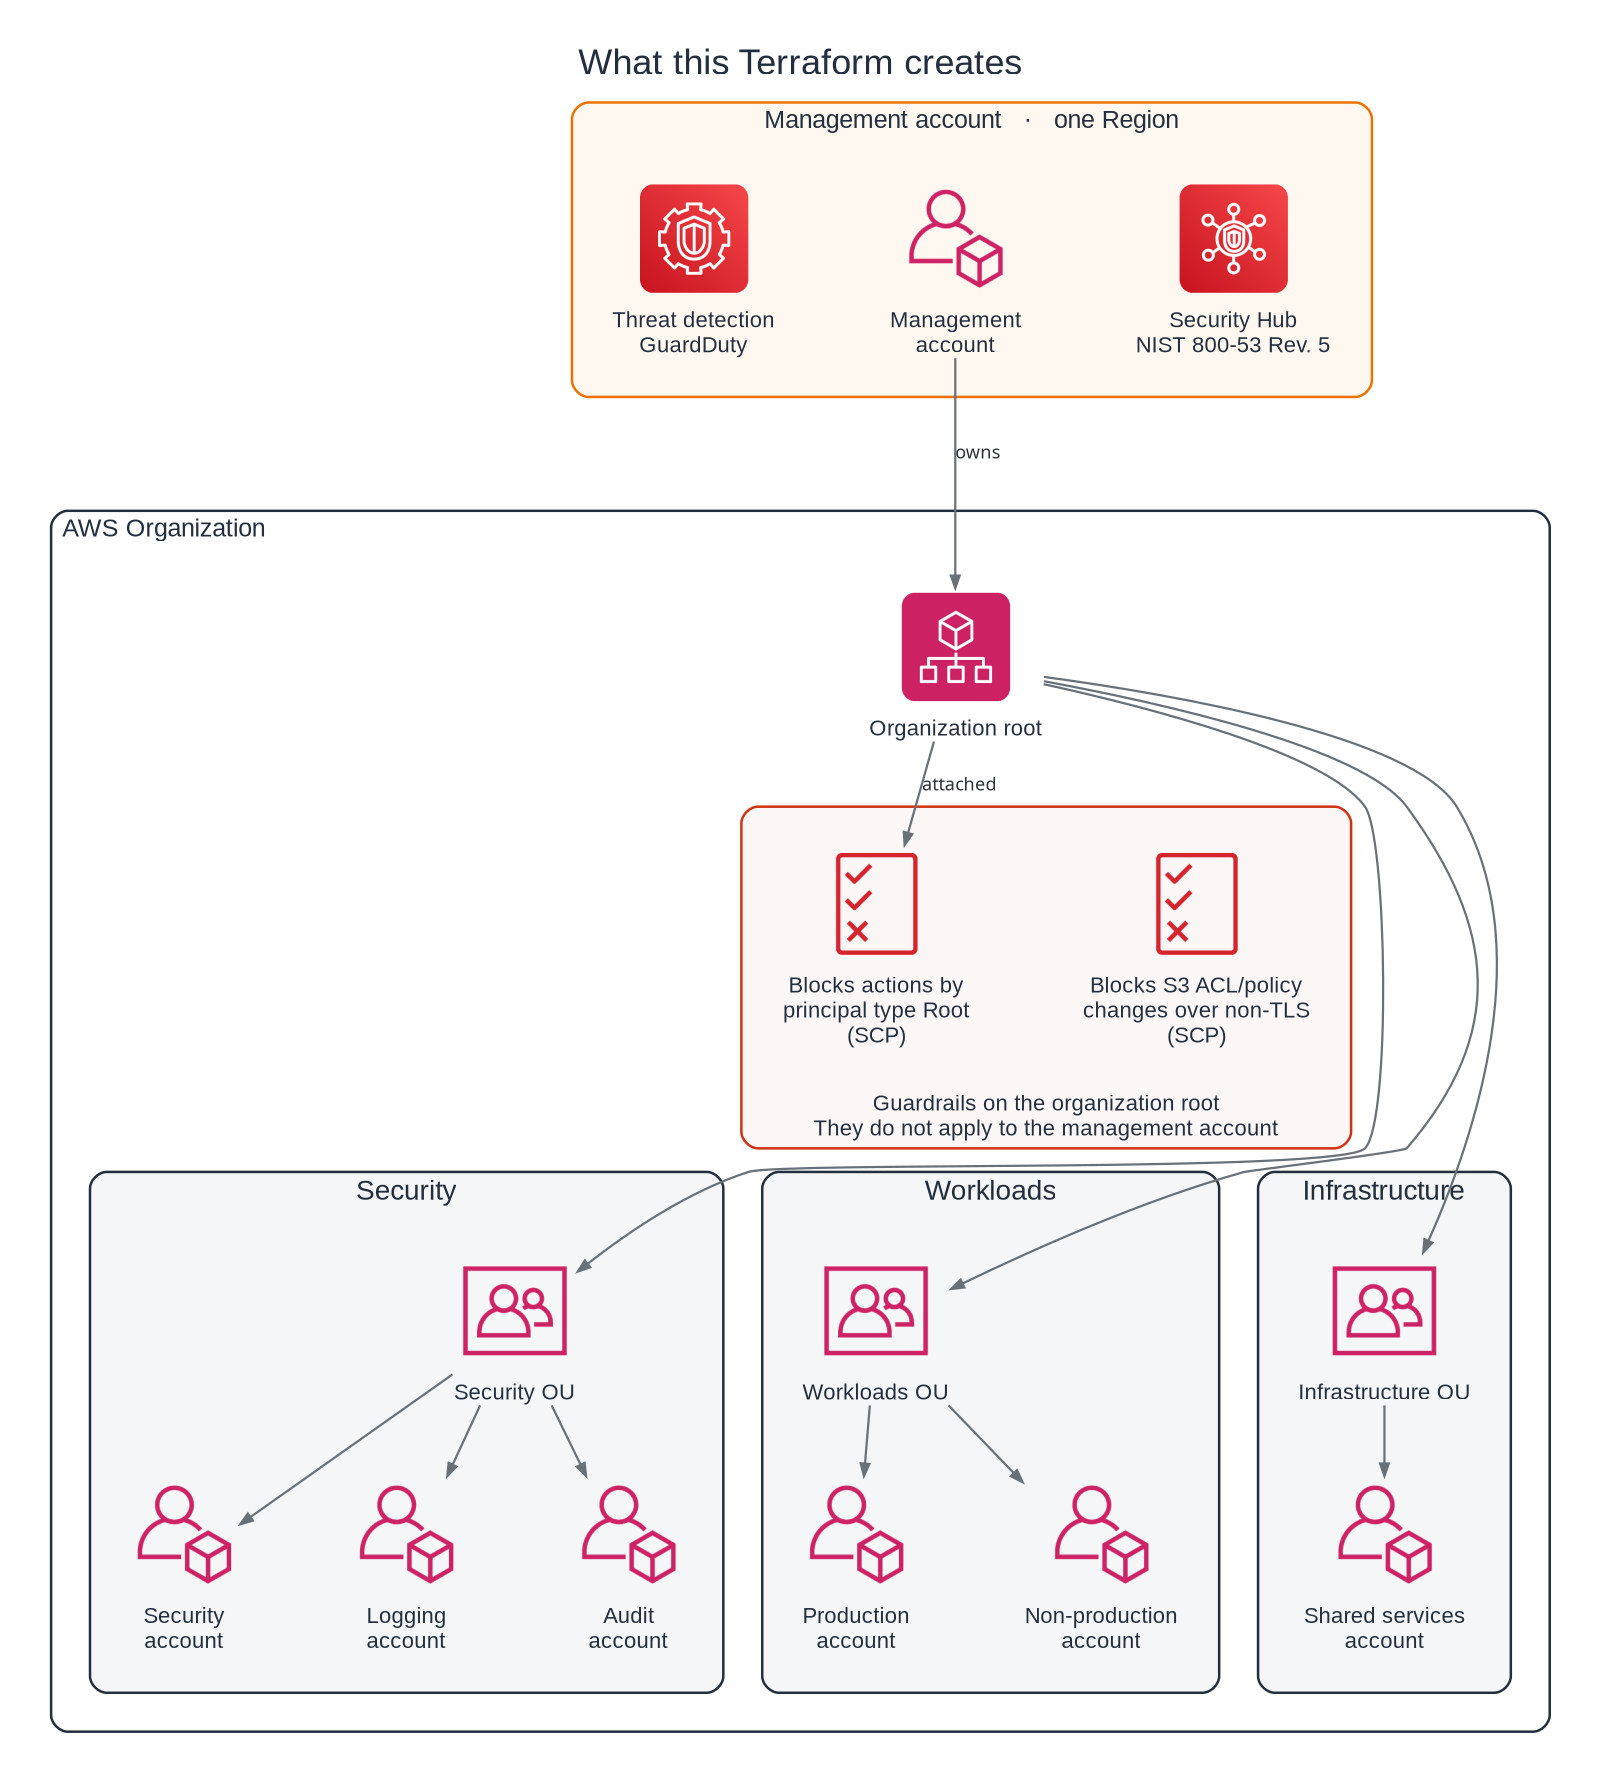
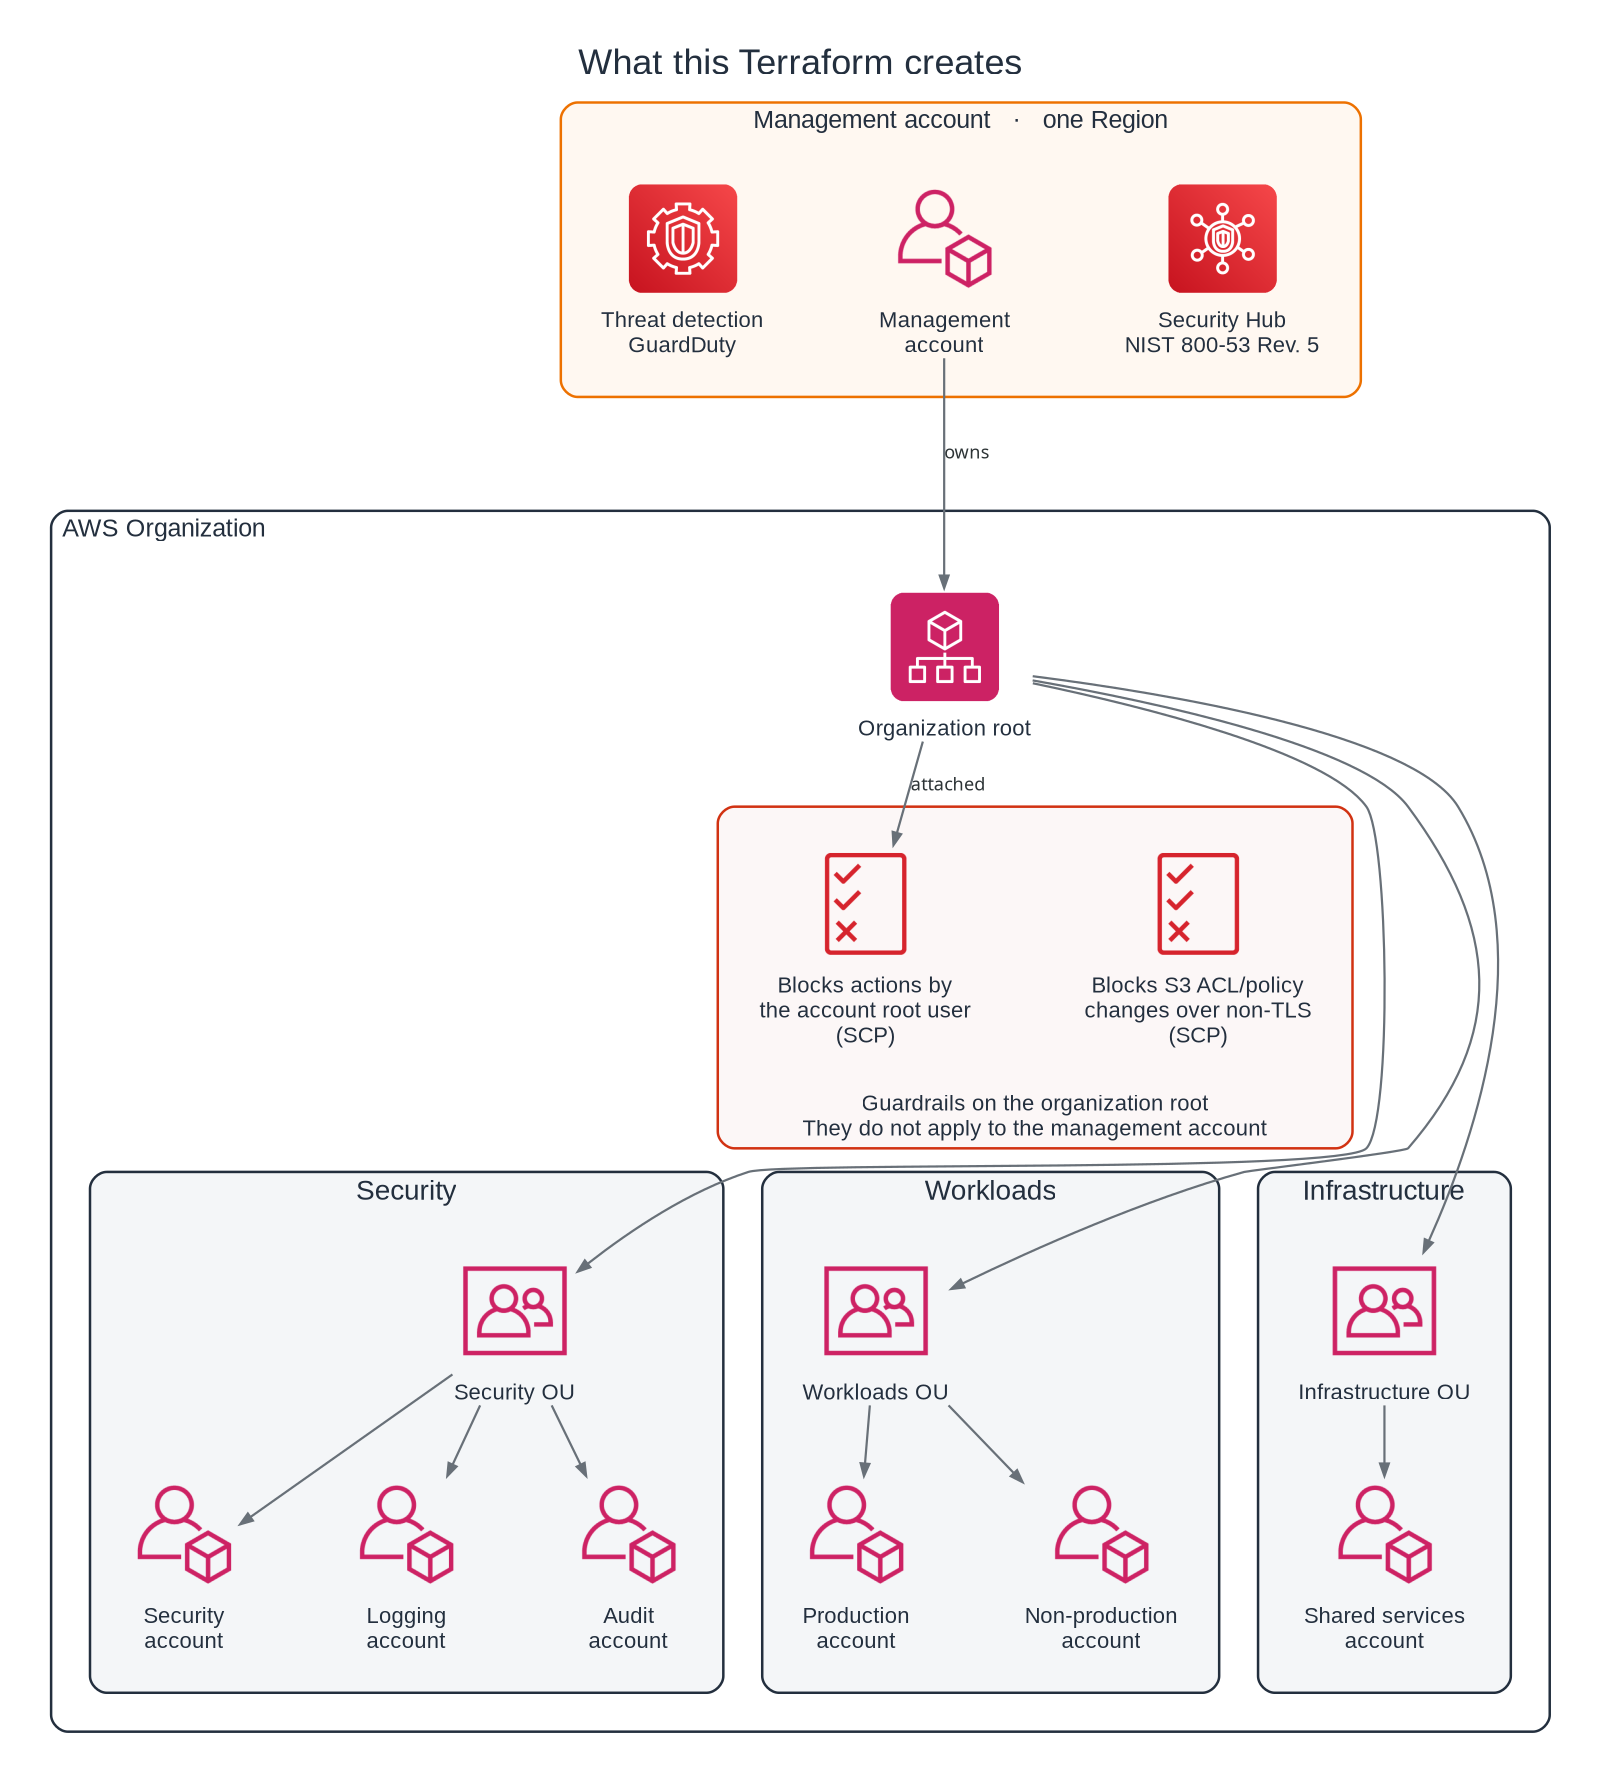
Deny root-user actions and store state in an encrypted, locked bucket. (#4)
The root SCP now matches arn:aws:iam::*:root, and both policies stay attached to the organization root. A bootstrap stack creates the versioned, SSE-KMS, TLS-only state bucket, and the landing zone backend uses encrypt and use_lockfile with a partial config.

diff --git a/docs/diagram.py b/docs/diagram.py
@@ -40,7 +40,7 @@ LINE = "#687078"
 
 # Plain-English labels. The wording stays inside what the guardrails table
 # says the JSON does.
-SCP_PRINCIPAL_TYPE_ROOT = "Blocks actions by\nprincipal type Root\n(SCP)"
+SCP_ROOT_USER = "Blocks actions by\nthe account root user\n(SCP)"
 SCP_S3_NON_TLS = "Blocks S3 ACL/policy\nchanges over non-TLS\n(SCP)"
 
 
@@ -183,9 +183,9 @@ def main() -> None:
                     "labelloc": "b",
                 },
             ) as guardrails:
-                principal_type_root = aws_icon(IAMPermissions, SCP_PRINCIPAL_TYPE_ROOT)
+                root_user = aws_icon(IAMPermissions, SCP_ROOT_USER)
                 s3_non_tls = aws_icon(IAMPermissions, SCP_S3_NON_TLS)
-                order_row(guardrails, principal_type_root, s3_non_tls)
+                order_row(guardrails, root_user, s3_non_tls)
 
             with Cluster(
                 "Security",
@@ -229,10 +229,10 @@ def main() -> None:
             # One labeled edge into the guardrails box, then an edge to each OU.
             # The invisible edges only keep the three groups under that box.
             # Ranking the OU icons from the parent pulls them out of the boxes.
-            root >> Edge(label="attached") >> principal_type_root
+            root >> Edge(label="attached") >> root_user
             root >> Edge(style="invis") >> s3_non_tls
             for ou in (security_ou, workloads_ou, infrastructure_ou):
-                principal_type_root >> Edge(style="invis") >> ou
+                root_user >> Edge(style="invis") >> ou
                 root >> Edge(constraint="false") >> ou
 
         management_account >> Edge(label="owns", minlen="2") >> root

diff --git a/README.md b/README.md
@@ -12,7 +12,7 @@ Terraform configuration for a small AWS Organizations landing zone. Applied from
 
 This is a lab and portfolio project. It is not production infrastructure, and it is not a FedRAMP Ready package, a FedRAMP authorization, or an Authority to Operate.
 
-The control mappings name NIST SP 800-53 Rev. 5 requirements that the configured statements and services support. They are not a control implementation statement, an inheritance decision, or an assessment result. `terraform validate` checks this configuration only. It does not call AWS, and it does not demonstrate that a policy has the effect its title suggests.
+The control mappings name NIST SP 800-53 Rev. 5 requirements that the configured statements and services support. They are not a control implementation statement, an inheritance decision, or an assessment result. `terraform validate` checks each stack's configuration only. It does not call AWS, and it does not demonstrate that a policy has the effect its title suggests.
 
 An apply creates real AWS resources. GuardDuty and Security Hub have a cost, and the six member accounts count against the Organizations account quota. Use a dedicated management account that is not already a member of an organization. If that account already owns an organization, import it before Terraform manages it. Replace the default `organization_name` and `email_domain` before any real apply: the generated email addresses have to be new to AWS.
 
@@ -25,7 +25,7 @@ An apply creates real AWS resources. GuardDuty and Security Hub have a cost, and
 - An `aws_guardduty_detector` in the management account, in `var.aws_region`, with `finding_publishing_frequency` `FIFTEEN_MINUTES`
 - Security Hub in the management account, in `var.aws_region`, with `enable_default_standards` false and this standard subscribed: `arn:aws:securityhub:${aws_region}::standards/nist-800-53/v/5.0.0`
 
-Policies on the organization root are inherited by accounts in child OUs. They do not apply to the management account. Terraform does not assume `OrganizationAccountAccessRole`.
+Policies on the organization root are inherited by accounts in child OUs. Service control policies do not apply to the management account. Terraform does not assume `OrganizationAccountAccessRole`.
 
 Each member account is created with `role_name` `OrganizationAccountAccessRole`, `iam_user_access_to_billing` `DENY`, and `close_on_deletion` false. Destroy removes the account from the organization and does not close it.
 
@@ -36,7 +36,6 @@ Each member account is created with `role_name` `OrganizationAccountAccessRole`,
 - GuardDuty or Security Hub in member accounts, a delegated administrator, or organization auto-enable
 - Amazon Inspector, AWS Config, or remediation automation
 - Workloads, networks, or IAM Identity Center
-- The S3 state bucket named in `backend.tf`
 
 The Security, Logging, and Audit accounts are accounts in the Security OU. Nothing in this repository deploys security tooling, log storage, or audit roles inside them.
 
@@ -59,7 +58,7 @@ Both documents under `policies/` are attached to the organization root. The JSON
 
 | Policy | What the statement does | NIST SP 800-53 Rev. 5 |
 | --- | --- | --- |
-| `DenyRootAccess` (`policies/deny-root.json`) | Denies `*` on `*` when `aws:PrincipalType` equals `Root` (`Sid` `DenyRootUserActions`). AWS documents the account root user as principal type `Account`, so this condition does not match that user. Do not cite this policy as evidence that root use is denied. | AC-6 Least Privilege is the requirement this statement is aimed at. It supports AC-6 only for a request whose principal type is the literal value `Root`. |
+| `DenyRootAccess` (`policies/deny-root.json`) | Denies `*` on `*` when `aws:PrincipalArn` is like `arn:aws:iam::*:root` (`Sid` `DenyRootUserActions`). That ARN is the account root user. | AC-6 Least Privilege. The statement denies every action by that principal. |
 | `DenyPublicS3Buckets` (`policies/deny-public-s3.json`) | Denies `s3:PutBucketAcl` and `s3:PutBucketPolicy` on `*` when `aws:SecureTransport` is `false` (`Sid` `DenyPublicS3Buckets`). The statement does not inspect bucket ACLs, bucket policies, or S3 Block Public Access. | SC-8 Transmission Confidentiality and Integrity. SC-13 Cryptographic Protection. Support is limited to those two actions when the condition matches. |
 
 ## Detective controls
@@ -71,10 +70,25 @@ These resources exist only in the management account, and only in `var.aws_regio
 | `aws_guardduty_detector.management` | `enable` true. `finding_publishing_frequency` `FIFTEEN_MINUTES`. No feature or data-source block, no members, no delegated administrator. | SI-4 System Monitoring. IR-4 Incident Handling. IR-5 Incident Monitoring. Coverage is this account and Region. |
 | `aws_securityhub_account.management` and `aws_securityhub_standards_subscription.nist_800_53` | `enable_default_standards` false. Standard ARN `arn:aws:securityhub:${aws_region}::standards/nist-800-53/v/5.0.0` in the commercial `aws` partition. | CA-7 Continuous Monitoring. The subscription turns on Security Hub checks for a subset of NIST SP 800-53 Rev. 5 in this account and Region. It does not implement the catalog and it is not an assessment. |
 
+## Remote state
+
+The landing zone stores remote state in S3. `backend.tf` sets `encrypt = true` and `use_lockfile = true`. The state object is `landing-zone/terraform.tfstate`. Native S3 locking writes `landing-zone/terraform.tfstate.tflock` in the same bucket. A backend block cannot use variables, so the account-specific bucket, region, and KMS key are supplied from `backend.hcl` at init. `backend.hcl.example` is the template. `backend.hcl` is gitignored.
+
+`bootstrap/` creates that bucket. It uses local state, because the remote bucket does not exist until this stack applies. An apply creates:
+
+- An S3 bucket with versioning enabled, so an overwritten state object can be restored from an older version
+- A KMS key, `alias/landing-zone-terraform-state`, used as the bucket's default SSE-KMS key (`bucket_key_enabled`)
+- A public access block with `block_public_acls`, `block_public_policy`, `ignore_public_acls`, and `restrict_public_buckets` set to true
+- A bucket policy that denies `s3:*` on the bucket and its objects when `aws:SecureTransport` is false
+
+`kms_key_id` in `backend.hcl` is that KMS key, so Terraform writes the state and lock objects with SSE-KMS.
+
 ## Layout
 
 ```text
-backend.tf                   S3 backend placeholder (encrypt, use_lockfile)
+backend.tf                   S3 backend (encrypt, use_lockfile). Bucket, region, and KMS key come from backend.hcl
+backend.hcl.example          Partial backend config. Copy to backend.hcl
+bootstrap/                   State bucket, KMS key, public access block, TLS-only bucket policy
 versions.tf                  Terraform >= 1.11 and AWS provider ~> 5.70
 variables.tf
 main.tf                      Provider, landing-zone module, SCPs, GuardDuty, Security Hub
@@ -90,23 +104,37 @@ docs/architecture.png        Picture under the introduction
 
 Terraform 1.11 or newer is required. AWS credentials are not used by the validate commands.
 
-The backend in `backend.tf` is a placeholder bucket, `your-terraform-state-bucket-here`, in `us-east-1`, with `encrypt` and `use_lockfile`. A backend block cannot read `var.aws_region`, so that region stays `us-east-1` even if the provider region changes. This configuration does not create the bucket.
+Check both stacks without contacting AWS:
 
 ```bash
-terraform fmt -check
+terraform fmt -check -recursive
 terraform init -backend=false
 terraform validate
+terraform -chdir=bootstrap init -backend=false
+terraform -chdir=bootstrap validate
 ```
 
-For a plan or apply, create that state bucket first. Versioning on the bucket is what makes an overwritten state recoverable. Then edit `backend.tf` and run Terraform with management-account credentials:
+Initializing the landing zone against real remote state is two steps. Use management-account credentials. `state_bucket_name` has no default.
+
+Step 1. Initialize and apply the bootstrap stack, which creates the bucket and the KMS key:
 
 ```bash
-terraform init
+terraform -chdir=bootstrap init
+terraform -chdir=bootstrap apply -var='state_bucket_name=YOUR_GLOBALLY_UNIQUE_BUCKET_NAME'
+```
+
+Step 2. Copy the partial backend config, set `bucket`, `region`, and `kms_key_id` from the bootstrap outputs `state_bucket_name`, `state_bucket_region`, and `state_kms_key_arn`, then initialize the landing zone:
+
+```bash
+cp backend.hcl.example backend.hcl
+terraform init -backend-config=backend.hcl
 terraform plan
 terraform apply
 ```
 
 ### Inputs
+
+Landing zone:
 
 | Name | Default | Description |
 | --- | --- | --- |
@@ -115,9 +143,19 @@ terraform apply
 | `email_domain` | `acme-corp.com` | Domain for member account emails. |
 | `tags` | see `variables.tf` | Applied to OUs, member accounts, both SCPs, and the GuardDuty detector. |
 
+Bootstrap (`bootstrap/`):
+
+| Name | Default | Description |
+| --- | --- | --- |
+| `state_bucket_name` | none | Globally unique state bucket name. |
+| `aws_region` | `us-east-1` | Region of the bucket and KMS key. Use the same value as `region` in `backend.hcl`. |
+| `tags` | see `bootstrap/variables.tf` | Applied to the state bucket and the KMS key. |
+
 The default tags include `Owner = Marlon` and `Compliance = NIST-800-53`. The compliance tag records intent. It is not evidence that a control is met.
 
 ### Outputs
+
+Landing zone:
 
 | Name | Description |
 | --- | --- |
@@ -130,13 +168,21 @@ The default tags include `Owner = Marlon` and `Compliance = NIST-800-53`. The co
 | `guardduty_detector_id` | GuardDuty detector ID in the management account |
 | `securityhub_standards_arn` | Subscribed Security Hub standard ARN |
 
+Bootstrap (`bootstrap/`):
+
+| Name | Description |
+| --- | --- |
+| `state_bucket_name` | Value for `bucket` in `backend.hcl`. |
+| `state_bucket_region` | Value for `region` in `backend.hcl`. |
+| `state_kms_key_arn` | Value for `kms_key_id` in `backend.hcl`. |
+
 ## Diagram
 
 ```mermaid
 flowchart TD
   Mgmt["Management account<br/>Threat detection with GuardDuty<br/>Security Hub NIST 800-53 Rev. 5 checks<br/>one Region"]
   Root["Organization root"]
-  ScpRoot["Blocks actions by principal type Root (SCP)"]
+  ScpRoot["Blocks actions by the account root user (SCP)"]
   ScpS3["Blocks S3 ACL/policy changes over non-TLS (SCP)"]
   SecOU["Security organizational unit"]
   WorkOU["Workloads organizational unit"]
